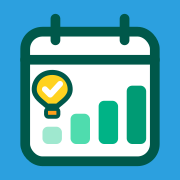
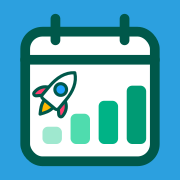
앱 아이콘 D: 성장 막대 달력 + 비스듬히 오르는 로켓 (r9)

Changed region(s): [[0.1667, 0.3889, 0.4444, 0.6667]]

diff --git a/index.html b/index.html
@@ -12,11 +12,11 @@
 <meta name="apple-mobile-web-app-status-bar-style" content="default">
 <meta name="application-name" content="날아라 아유 보드">
 <title>날아라 아유 보드</title>
-<link rel="manifest" href="./manifest.webmanifest?v=r8">
-<link rel="icon" href="./favicon-48-r8.png" sizes="48x48" type="image/png">
-<link rel="apple-touch-icon" sizes="180x180" href="./apple-touch-icon-r8.png">
-<link rel="apple-touch-icon" href="./apple-touch-icon-r8.png">
-<link rel="apple-touch-icon-precomposed" href="./apple-touch-icon-r8.png">
+<link rel="manifest" href="./manifest.webmanifest?v=r9">
+<link rel="icon" href="./favicon-48-r9.png" sizes="48x48" type="image/png">
+<link rel="apple-touch-icon" sizes="180x180" href="./apple-touch-icon-r9.png">
+<link rel="apple-touch-icon" href="./apple-touch-icon-r9.png">
+<link rel="apple-touch-icon-precomposed" href="./apple-touch-icon-r9.png">
 <style>
 /* 주아 (Jua) · 카카오 작은글씨 — SIL Open Font License 1.1. FONT-LICENSE.txt 참고.
    앱 안의 파일을 먼저 쓰고, 없으면 CDN 으로 넘어간다. */
@@ -668,7 +668,7 @@ footer{font-size:var(--fs-xs);color:var(--ink-3);text-align:center;line-height:1
   <footer>
     달력에서 날짜를 누르면 그날 학습을 보고 고칠 수 있어요.<br>
     기록은 이 기기에 저장돼요. 가끔 백업 파일로 내보내 두세요.<br>
-    <span class="ver">v2026-09-28i</span>
+    <span class="ver">v2026-09-29a</span>
   </footer>
 </div>
 

diff --git a/sw.js b/sw.js
@@ -3,7 +3,7 @@
    아이콘·글꼴은 캐시 우선: 인터넷이 없어도 앱이 그대로 뜬다.
    학습 기록은 캐시가 아니라 localStorage 에 있으므로 캐시를 비워도 사라지지 않는다. */
 
-var VERSION = "ayuboard-2026-09-28i";
+var VERSION = "ayuboard-2026-09-29a";
 var PREFIX = "ayuboard-";
 var SHELL = PREFIX + "shell-" + VERSION;
 
@@ -11,14 +11,14 @@ var SHELL_FILES = [
   "./",
   "./index.html",
   "./manifest.webmanifest",
-  "./manifest.webmanifest?v=r8",
-  "./apple-touch-icon-r8.png",
+  "./manifest.webmanifest?v=r9",
+  "./apple-touch-icon-r9.png",
   "./apple-touch-icon-precomposed.png",
-  "./icon-180-r8.png",
-  "./icon-192-r8.png",
-  "./icon-512-r8.png",
-  "./icon-maskable-512-r8.png",
-  "./favicon-48-r8.png",
+  "./icon-180-r9.png",
+  "./icon-192-r9.png",
+  "./icon-512-r9.png",
+  "./icon-maskable-512-r9.png",
+  "./favicon-48-r9.png",
   "./ayu-avatar-r4.png",
   "./Jua-Korean.woff2",
   "./KakaoSmallSans-Regular.woff2",
